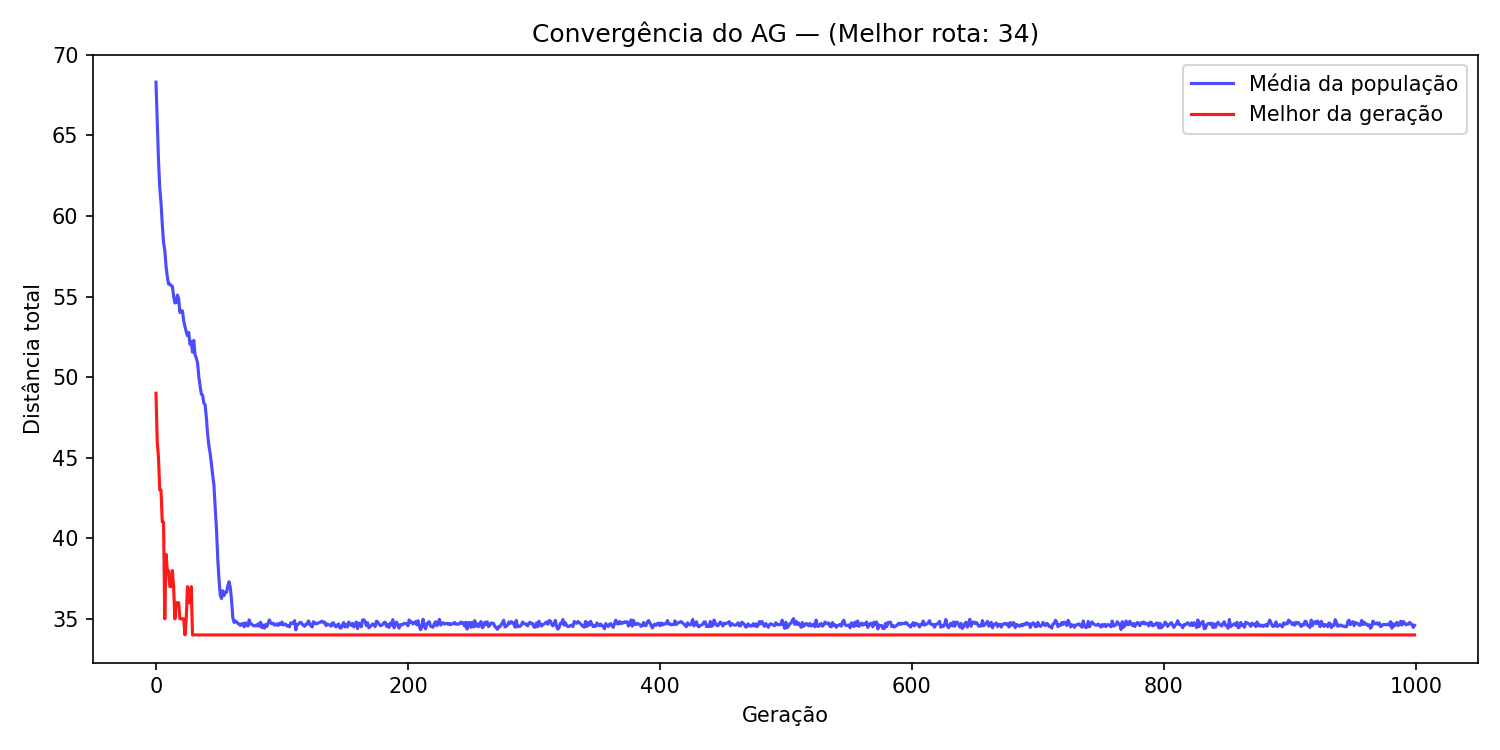
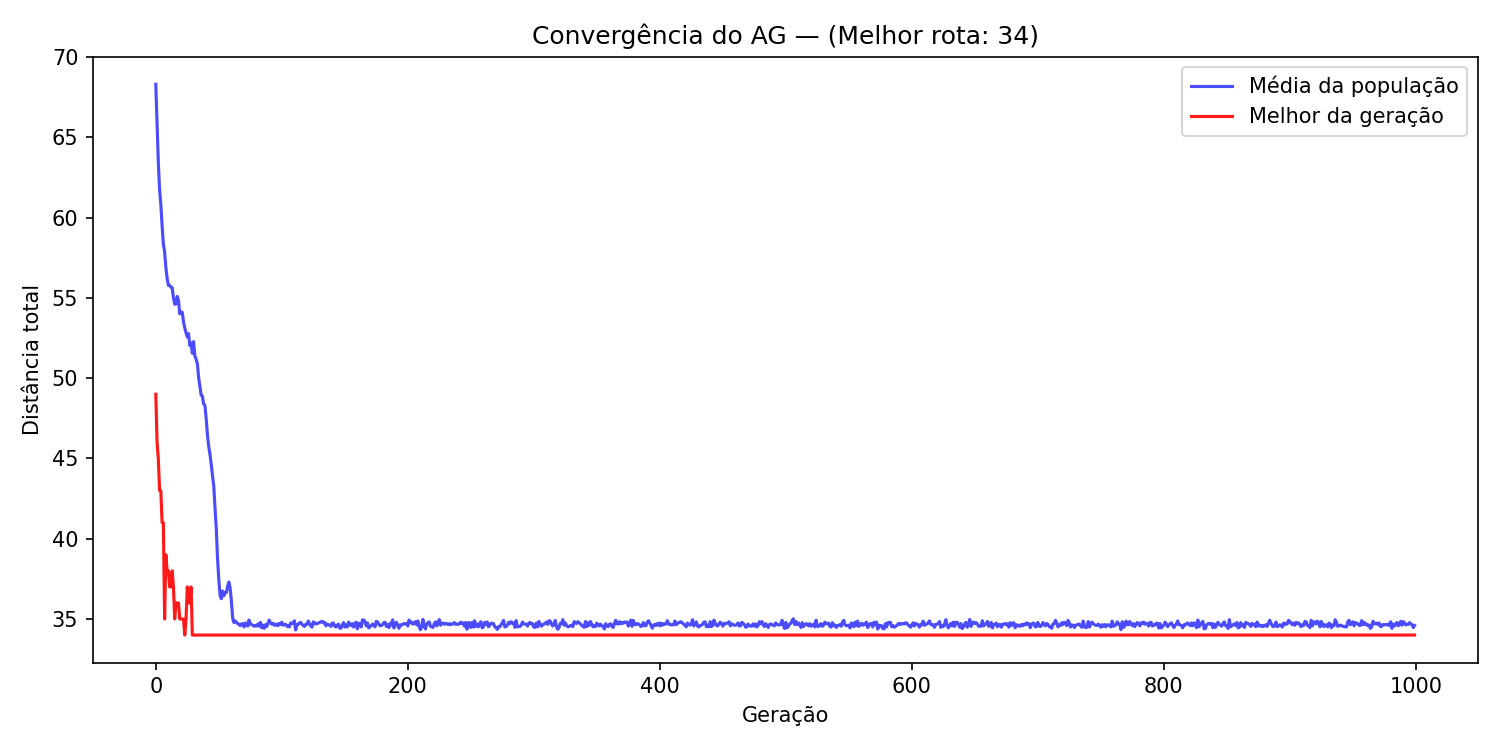
Adiconando o temporizador

diff --git a/processo.py b/processo.py
@@ -3,6 +3,7 @@
 
 import random
 import time
+import sys
 import numpy as np
 import matplotlib.pyplot as plt
 
@@ -14,7 +15,7 @@ from deap import base, creator, tools
 distancias = {}
 todos_valores = []
 
-with open("brazil58.tsp", "r") as objArq:  # Mantendo o nome do arquivo que você usa
+with open("brazil58.tsp", "r") as objArq:
     for line in objArq:
         line = line.strip()
         if not line or "NAME" in line or "TYPE" in line or "COMMENT" in line or "DIMENSION" in line or "EDGE_WEIGHT" in line:
@@ -121,95 +122,84 @@ toolbox.register("select",  tools.selTournament, tournsize=3)
 # =============================================================================
 # 4. PARÂMETROS PARA 13 CIDADES
 # =============================================================================
-SEED               = 42       
-NUM_CITIES         = n
-POP_SIZE           = int(NUM_CITIES * 1.5)   # ~19 indivíduos
-CXPB               = 0.9      
-MUTPB              = 0.2      
-NGEN               = 1000     
-K_SELECTION        = 750      
-NUM_EXECUCOES      = 10       
+SEED        = 42
+NUM_CITIES  = n
+POP_SIZE    = int(NUM_CITIES * 1.5)   # ~19 indivíduos
+CXPB        = 0.9
+MUTPB       = 0.2
+NGEN        = 1000
+K_SELECTION = 750
 
 
 # =============================================================================
-# 5. EXECUÇÃO
-# =============================================================================
-def executar_uma_vez(seed_offset=0):
-    random.seed(SEED + seed_offset)
-    np.random.seed(SEED + seed_offset)
-
-    populacao = toolbox.population(n=POP_SIZE)
-
-    fitnesses = list(map(toolbox.evaluate, populacao))
-    for ind, fit in zip(populacao, fitnesses):
-        ind.fitness.values = fit
-
-    historico_media = []
-    historico_min   = []
-
-    for gen in range(NGEN):
-        offspring = toolbox.select(populacao, K_SELECTION)
-        offspring = list(map(toolbox.clone, offspring))
-
-        for child1, child2 in zip(offspring[::2], offspring[1::2]):
-            if random.random() < CXPB:
-                toolbox.mate(child1, child2)
-                del child1.fitness.values
-                del child2.fitness.values
-
-        for mutant in offspring:
-            if random.random() < MUTPB:
-                toolbox.mutate(mutant)
-                del mutant.fitness.values
-
-        invalidos = [ind for ind in offspring if not ind.fitness.valid]
-        fitnesses  = list(map(toolbox.evaluate, invalidos))
-        for ind, fit in zip(invalidos, fitnesses):
-            ind.fitness.values = fit
-
-        populacao[:] = offspring
-
-        fits = [ind.fitness.values[0] for ind in populacao]
-        historico_media.append(sum(fits) / len(fits))
-        historico_min.append(min(fits))
-
-    melhor = tools.selBest(populacao, 1)[0]
-    return melhor, historico_media, historico_min
-
-
-# =============================================================================
-# 6. MÚLTIPLAS EXECUÇÕES
+# 5. EXECUÇÃO ÚNICA COM TEMPORIZADOR
 # =============================================================================
 CIDADE_ORIGEM = random.choice(cidades_lista)
 print(f"Cidade de origem sorteada para o relatório: {CIDADE_ORIGEM}\n")
 print("=" * 55)
+print("Iniciando execução...\n")
 
-melhor_global       = None
-melhor_distancia    = float("inf")
-melhor_historico_media = []
-melhor_historico_min   = []
+random.seed(SEED)
+np.random.seed(SEED)
+
+populacao = toolbox.population(n=POP_SIZE)
+
+fitnesses = list(map(toolbox.evaluate, populacao))
+for ind, fit in zip(populacao, fitnesses):
+    ind.fitness.values = fit
+
+historico_media = []
+historico_min   = []
 
 inicio = time.time()
 
-for execucao in range(NUM_EXECUCOES):
-    rota, hist_media, hist_min = executar_uma_vez(seed_offset=execucao)
-    dist = calcular_distancia_rota(rota)
-    print(f"Execução {execucao + 1:2d} | Distância: {dist:6} | Fitness: {1/dist:.8f}")
+for gen in range(NGEN):
+    # --- Temporizador em tempo real ---
+    elapsed = time.time() - inicio
+    melhor_atual = min(ind.fitness.values[0] for ind in populacao)
+    sys.stdout.write(
+        f"\r  Geração {gen + 1:4d}/{NGEN} | "
+        f"Melhor: {melhor_atual:6} | "
+        f"Tempo: {elapsed:.2f}s"
+    )
+    sys.stdout.flush()
 
-    if dist < melhor_distancia:
-        melhor_distancia       = dist
-        melhor_global          = list(rota)
-        melhor_historico_media = hist_media
-        melhor_historico_min   = hist_min
+    # --- Evolução ---
+    offspring = toolbox.select(populacao, K_SELECTION)
+    offspring = list(map(toolbox.clone, offspring))
+
+    for child1, child2 in zip(offspring[::2], offspring[1::2]):
+        if random.random() < CXPB:
+            toolbox.mate(child1, child2)
+            del child1.fitness.values
+            del child2.fitness.values
+
+    for mutant in offspring:
+        if random.random() < MUTPB:
+            toolbox.mutate(mutant)
+            del mutant.fitness.values
+
+    invalidos  = [ind for ind in offspring if not ind.fitness.valid]
+    fitnesses  = list(map(toolbox.evaluate, invalidos))
+    for ind, fit in zip(invalidos, fitnesses):
+        ind.fitness.values = fit
+
+    populacao[:] = offspring
+
+    fits = [ind.fitness.values[0] for ind in populacao]
+    historico_media.append(sum(fits) / len(fits))
+    historico_min.append(min(fits))
 
 fim = time.time()
+print()  # quebra de linha após o temporizador
 
 # =============================================================================
-# 7. RESULTADO FINAL (IMPRESSÃO DA MELHOR ROTA)
+# 6. RESULTADO FINAL
 # =============================================================================
-# Reorganiza a melhor rota global para começar a partir da CIDADE_ORIGEM escolhida
+melhor_global    = list(tools.selBest(populacao, 1)[0])
+melhor_distancia = calcular_distancia_rota(melhor_global)
+
 rota_ordenada = normalizar_para_origem(melhor_global, CIDADE_ORIGEM)
-# Adiciona a origem no final para fechar o ciclo de retorno do caixeiro viajante
 rota_completa = rota_ordenada + [CIDADE_ORIGEM]
 
 print("\n" + "=" * 55)
@@ -225,11 +215,11 @@ print(f" 🚩 {' ➡ '.join(map(str, rota_completa))} 🏁")
 print("=" * 55)
 
 # =============================================================================
-# 8. GRÁFICO DE CONVERGÊNCIA
+# 7. GRÁFICO DE CONVERGÊNCIA
 # =============================================================================
 fig, ax = plt.subplots(figsize=(10, 5))
-ax.plot(range(len(melhor_historico_media)), melhor_historico_media, "b-", label="Média da população", alpha=0.7)
-ax.plot(range(len(melhor_historico_min)),  melhor_historico_min, "r-", label="Melhor da geração", alpha=0.9)
+ax.plot(range(len(historico_media)), historico_media, "b-", label="Média da população", alpha=0.7)
+ax.plot(range(len(historico_min)),  historico_min,   "r-", label="Melhor da geração",  alpha=0.9)
 ax.set_xlabel("Geração")
 ax.set_ylabel("Distância total")
 ax.set_title(f"Convergência do AG — (Melhor rota: {melhor_distancia})")
